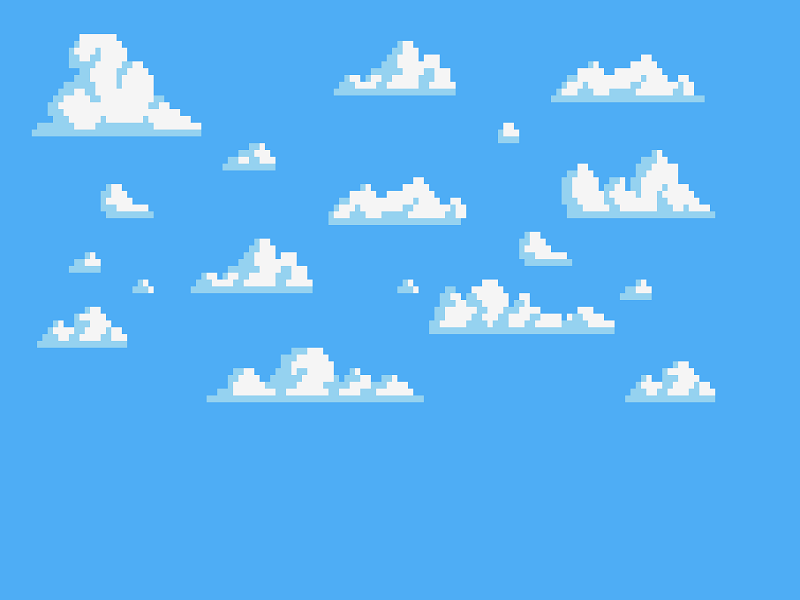
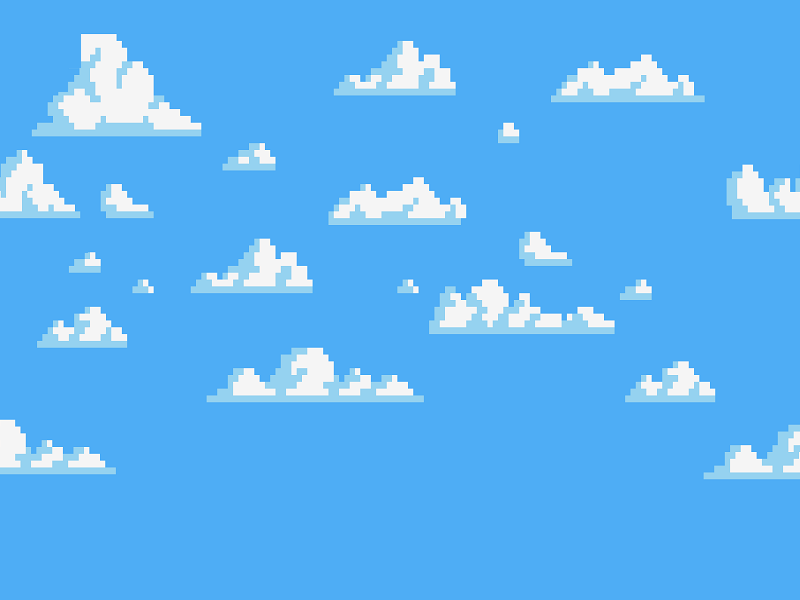
loi khong ve dc main canvas

diff --git a/index.html b/index.html
@@ -16,78 +16,33 @@
             margin: 0 auto;
             background-color: black;
         }
-        /* canvas{
-            height:256px;
-            width:480px;
-            background-image: url("PlainsScroll.gif");
-        } */
+         canvas{
+            height:600px;
+            width:800px;
+            position: absolute;
+        } 
     </style>
 </head>
 <body>
     <div class="MainBox">
-        <canvas id="MyCanvas">
-            
-        </canvas>
+        <canvas id="Mainlayer"></canvas>
+        <!-- <canvas id="BackgroundLayer"></canvas> -->
+   
 
     </div>
+    <!-- <script src="background.js"></script> -->
+    
     <script>
-        // let canvas=document.getElementById("MyCanvas");
-        // let ctx = canvas.getContext("2d");
-        
-        // inside main_javascript.js 
-        let canvas = document.getElementById('MyCanvas'); 
-        // The 2D Context for the HTML canvas element. It 
-        // provides objects, methods, and properties to draw and 
-        // manipulate graphics on a canvas drawing surface. 
-        let ctx = canvas.getContext('2d'); 
-        // canvas width and height 
-        canvas.width = 800; 
-        canvas.height = 600; 
-        // create an image element 
-        let img = new Image(); 
-        // specify the image source relative to the html or js file 
-        // when the image is in the same directory as the file 
-        // only the file name is required: 
-        img.src = "PixelArt.png"; 
-        // window.onload is an event that occurs when all the assets 
-        // have been succesfuly loaded( in this case only the spacebg.png) 
-            // the initial image width 
-            let imgWidth = 000; 
-            // the scroll speed 
-            // an important thing to ensure here is that can.height 
-            // is divisible by scrollSpeed 
-            let scrollSpeed = 5; 
-            // this is the primary animation loop that is called 60 times 
-            // per second 
-            function loop() { 
-            // draw image 1 
-            ctx.drawImage(img,imgWidth, 0); 
-            // draw image 2 
-            if(canvas.width+imgWidth<800){
-            ctx.drawImage(img,canvas.width+imgWidth,0); 
-            }
-            else {
-            ctx.drawImage(img,-(canvas.width-imgWidth),0)
-            }
-
-
-            // update image Width 
-            imgWidth -= scrollSpeed; 
- 
-            // reseting the images when the first image entirely exits the screen 
-            if (imgWidth == -canvas.width) 
-                imgWidth = 800; 
-            // this function creates a 60fps animation by scheduling a 
-            // loop function call before the 
-            // next redraw every time it is called 
-            console.log(imgWidth);
-            } 
-            // this initiates the animation by calling the loop function 
-            // for the first time
-            
-           
-        window.setInterval(loop,125);
-  
+    window.onload=function() {    
+    let Mainlayer = document.getElementById('Mainlayer'); 
+    let ctxMain = Mainlayer.getContext('2d'); 
+    let character=new Image();
+    character.src="cloud.png"
+    ctxMain.beginPath();
+    ctxMain.arc(100, 75, 50, 0, 2 * Math.PI);
+    ctxMain.stroke();  
+    console.log(character)
+    }
     </script>
 </body>
 </html>

diff --git a/background.js b/background.js
@@ -1,0 +1,50 @@
+ // inside main_javascript.js 
+ let background = document.getElementById('BackgroundLayer'); 
+ // The 2D Context for the HTML background element. It 
+ // provides objects, methods, and properties to draw and 
+ // manipulate graphics on a background drawing surface. 
+ let ctxBack = background.getContext('2d'); 
+ // background width and height 
+ background.width = 800; 
+ background.height = 600; 
+ // create an image element 
+ let img = new Image(); 
+ // specify the image source relative to the html or js file 
+ // when the image is in the same directory as the file 
+ // only the file name is required: 
+ img.src = "PixelArt.png"; 
+ // window.onload is an event that occurs when all the assets 
+ // have been succesfuly loaded( in this case only the spacebg.png) 
+ // the initial image width 
+ let imgWidth = 800; 
+ // the scroll speed 
+ // an important thing to ensure here is that can.height 
+ // is divisible by scrollSpeed 
+ let scrollSpeed = 5; 
+ // this is the primary animation loop that is called 60 times 
+ // per second 
+ function loopBack() { 
+ // draw image 1 
+ ctxBack.drawImage(img,imgWidth, 0); 
+ // draw image 2 
+ if(background.width+imgWidth<800){
+ ctxBack.drawImage(img,background.width+imgWidth,0); 
+ }
+ else {
+ ctxBack.drawImage(img,-(background.width-imgWidth),0)
+ }
+
+
+ // update image Width 
+ imgWidth -= scrollSpeed; 
+
+ // reseting the images when the first image entirely exits the screen 
+ if (imgWidth == -background.width) 
+     imgWidth = 800; 
+ // this function creates a 60fps animation by scheduling a 
+ // loop function call before the 
+ // next redraw every time it is called 
+ } 
+ // this initiates the animation by calling the loop function 
+ // for the first time
+ window.setInterval(loopBack,125);
